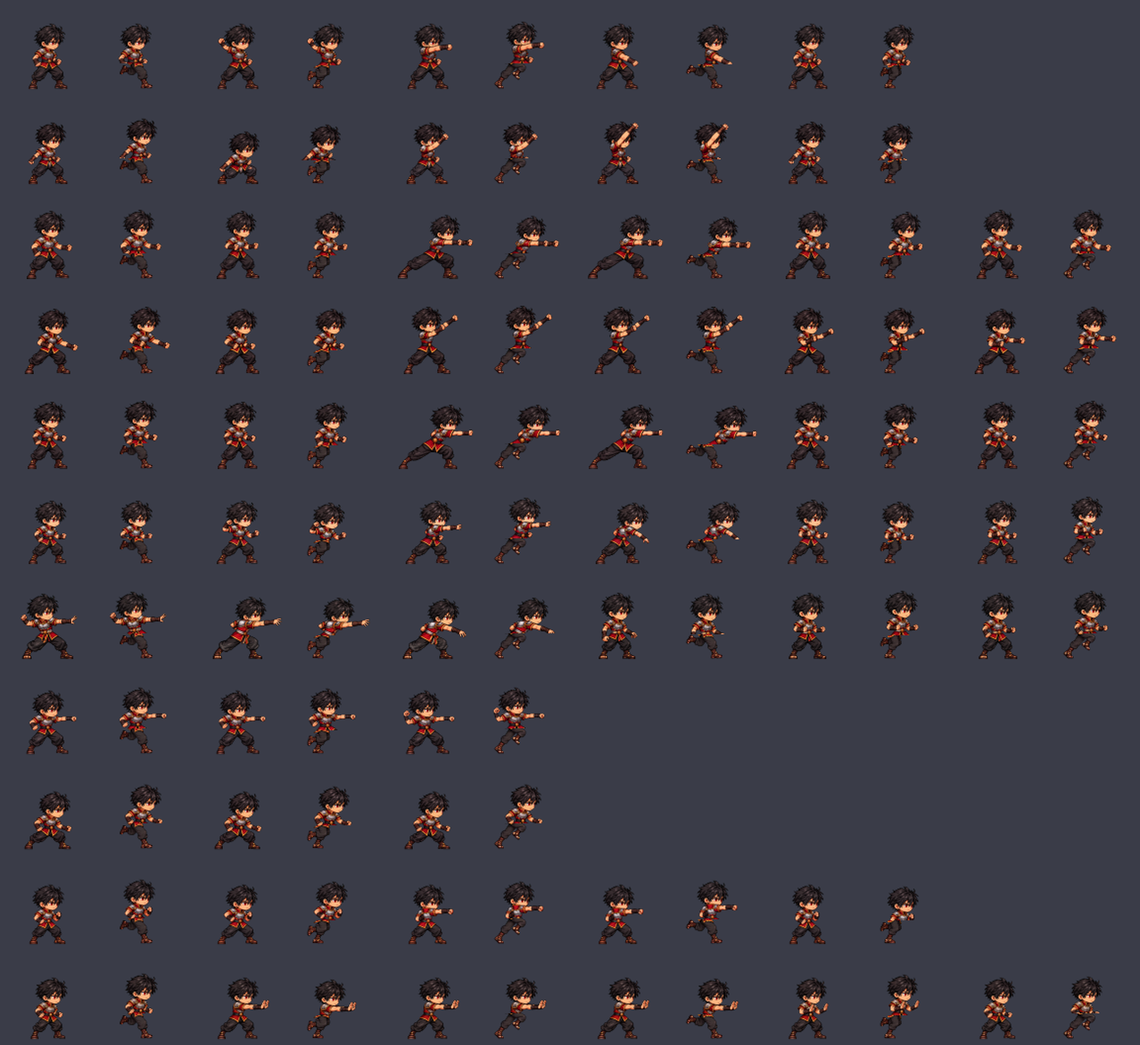
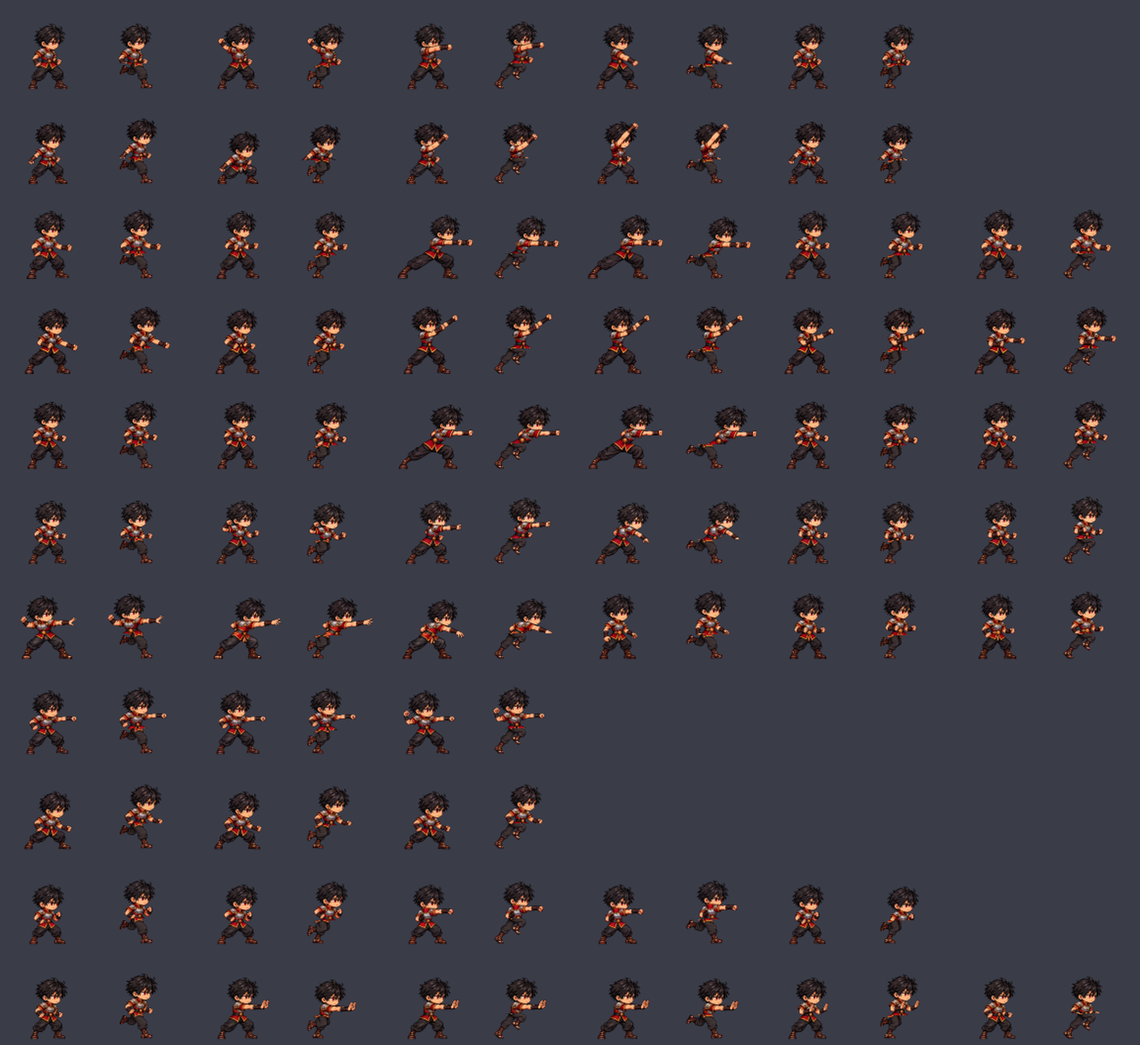
Zed chạy + chém: hết vặn người (chân cùng hướng thân trên, chạy ngược → chạy lùi nhịp 0,8) và hết bóp eo (cắt giữa đùi, vùng nối 5 hàng giãn ngang khớp mép), đo lại 4 bộ (ZED_EO phiên bản 2), cờ ?eosua=0
Claude-Session: https://claude.ai/code/session_017N7QXqfkK27mirk6Hvvt7g

diff --git a/game/js/zed_eo_data.js b/game/js/zed_eo_data.js
@@ -1,2 +1,2 @@
 // TỰ SINH bởi docs/anh-goc/zed/cat-than.py — đừng sửa tay. Điểm eo từng khung để ghép chạy + chém (js/zed_moi.js).
-(window.G = window.G || {}).ZED_EO = {"phien_ban":1,"ghi_chu":"Dựng bằng docs/anh-goc/zed/cat-than.py. Mỗi khung [y, x] ô 96×96 nguồn: y = đường cắt (đáy đai), x = tâm hông.","hang":["kiem_1","kiem_2","thuong_1","thuong_2","thuong_3","phitieu","phitieu_chum","phitieu_ngam","thuong_giu","dam","chuong"],"bo":{"moi":{"chay":[[65,39],[67,43],[65,40],[64,41],[64,43],[66,43],[64,43],[64,42],[64,42],[64,42],[64,43],[64,44]],"kiem_1":[[64,45],[64,44],[63,44],[63,44],[64,44]],"kiem_2":[[67,44],[72,54],[66,45],[66,44],[67,44]],"thuong_1":[[62,45],[62,46],[62,50],[62,50],[61,45],[62,44]],"thuong_2":[[66,44],[63,46],[62,45],[62,44],[63,44],[63,46]],"thuong_3":[[61,46],[61,44],[62,48],[61,48],[61,44],[61,44]],"phitieu":[[66,46],[66,46],[66,47],[65,47],[66,45],[66,46]],"phitieu_chum":[[64,45],[64,47],[64,47],[64,45],[64,44],[64,45]],"phitieu_ngam":[[67,45],[67,45],[66,46]],"thuong_giu":[[70,44],[70,45],[70,44]],"dam":[[68,44],[68,45],[68,44],[68,44],[67,44]],"chuong":[[67,45],[67,47],[67,47],[67,46],[67,45],[66,45]]},"rung":{"chay":[[63,39],[66,42],[63,40],[63,41],[62,42],[65,43],[62,43],[62,38],[62,40],[62,41],[61,39],[62,42]],"kiem_1":[[63,46],[63,45],[63,46],[63,44],[63,45]],"kiem_2":[[67,45],[72,54],[67,44],[67,44],[67,44]],"thuong_1":[[60,45],[60,44],[61,51],[61,50],[60,45],[60,45]],"thuong_2":[[66,44],[63,46],[62,44],[62,44],[66,43],[65,44]],"thuong_3":[[61,45],[61,45],[62,52],[61,50],[65,44],[65,43]],"phitieu":[[66,45],[66,46],[66,48],[66,48],[66,46],[66,45]],"phitieu_chum":[[63,43],[64,50],[64,48],[64,44],[64,44],[64,44]],"phitieu_ngam":[[65,44],[65,44],[65,44]],"thuong_giu":[[70,46],[70,46],[70,46]],"dam":[[68,44],[68,45],[68,43],[68,43],[68,45]],"chuong":[[67,45],[67,46],[67,46],[67,46],[67,45],[66,45]]},"bien":{"chay":[[68,42],[67,41],[68,41],[64,41],[63,40],[64,41],[64,43],[63,38],[68,39],[67,40],[67,39],[64,44]],"kiem_1":[[64,45],[64,44],[63,44],[67,43],[64,44]],"kiem_2":[[65,45],[72,54],[66,45],[66,44],[65,45]],"thuong_1":[[62,45],[60,50],[62,50],[62,49],[61,45],[62,44]],"thuong_2":[[66,45],[63,46],[62,45],[62,44],[63,44],[66,43]],"thuong_3":[[61,46],[61,44],[63,46],[61,48],[61,44],[61,44]],"phitieu":[[65,44],[65,42],[66,45],[66,44],[65,46],[65,46]],"phitieu_chum":[[64,48],[64,47],[64,47],[64,45],[64,44],[64,45]],"phitieu_ngam":[[67,45],[67,45],[66,46]],"thuong_giu":[[70,44],[70,45],[70,44]],"dam":[[71,44],[68,42],[68,42],[68,40],[71,44]],"chuong":[[66,41],[70,45],[70,45],[70,45],[70,45],[66,45]]},"lau":{"chay":[[63,40],[67,43],[65,40],[63,43],[63,41],[63,44],[64,43],[63,38],[65,40],[63,39],[63,40],[64,44]],"kiem_1":[[63,49],[65,46],[65,44],[63,44],[64,46]],"kiem_2":[[67,44],[72,54],[63,47],[63,48],[63,48]],"thuong_1":[[64,46],[64,46],[62,50],[62,50],[64,42],[63,46]],"thuong_2":[[65,43],[65,46],[64,42],[64,45],[65,44],[65,44]],"thuong_3":[[64,44],[64,44],[63,49],[63,44],[63,46],[64,44]],"phitieu":[[63,49],[63,48],[66,47],[65,47],[63,49],[67,49]],"phitieu_chum":[[65,46],[64,47],[64,47],[63,49],[67,42],[65,43]],"phitieu_ngam":[[66,45],[67,45],[66,46]],"thuong_giu":[[70,44],[70,45],[70,44]],"dam":[[68,44],[68,45],[66,46],[68,44],[63,40]],"chuong":[[67,45],[63,48],[63,49],[63,49],[68,44],[64,48]]}},"loai":{"rung":["kiem_2#1 [73, 44]→ninja [72, 54]"],"bien":["chay#3 None→ninja [64, 41]","chay#6 [64, 36]→ninja [64, 43]","chay#11 [64, 34]→ninja [64, 44]","kiem_1#0 [63, 36]→ninja [64, 45]","kiem_1#1 [63, 56]→ninja [64, 44]","kiem_1#2 [63, 53]→ninja [63, 44]","kiem_1#4 [63, 36]→ninja [64, 44]","kiem_2#1 [69, 59]→ninja [72, 54]","kiem_2#2 [65, 51]→ninja [66, 45]","kiem_2#3 [65, 53]→ninja [66, 44]","thuong_1#0 [61, 50]→ninja [62, 45]","thuong_1#4 [60, 52]→ninja [61, 45]","thuong_1#5 [61, 50]→ninja [62, 44]","thuong_2#1 None→ninja [63, 46]","thuong_2#2 None→ninja [62, 45]","thuong_2#3 None→ninja [62, 44]","thuong_2#4 None→ninja [63, 44]","thuong_3#0 [66, 44]→ninja [61, 46]","thuong_3#1 None→ninja [61, 44]","thuong_3#3 [62, 53]→ninja [61, 48]","thuong_3#4 [62, 53]→ninja [61, 44]","thuong_3#5 None→ninja [61, 44]","phitieu_chum#1 [65, 57]→ninja [64, 47]","phitieu_chum#2 [65, 54]→ninja [64, 47]","phitieu_chum#3 [65, 54]→ninja [64, 45]","phitieu_chum#4 None→ninja [64, 44]","phitieu_chum#5 None→ninja [64, 45]","phitieu_ngam#0 [65, 56]→ninja [67, 45]","phitieu_ngam#1 [65, 54]→ninja [67, 45]","phitieu_ngam#2 [65, 54]→ninja [66, 46]","thuong_giu#0 [69, 60]→ninja [70, 44]","thuong_giu#1 [69, 60]→ninja [70, 45]","thuong_giu#2 [69, 60]→ninja [70, 44]","chuong#5 None→ninja [66, 45]"],"lau":["chay#1 [64, 38]→ninja [67, 43]","chay#2 [63, 33]→ninja [65, 40]","chay#11 [63, 39]→ninja [64, 44]","kiem_2#0 [63, 49]→ninja [67, 44]","kiem_2#1 [64, 50]→ninja [72, 54]","thuong_1#2 [64, 44]→ninja [62, 50]","thuong_1#3 [64, 45]→ninja [62, 50]","phitieu#2 [63, 56]→ninja [66, 47]","phitieu#3 [63, 52]→ninja [65, 47]","phitieu_chum#1 [65, 56]→ninja [64, 47]","phitieu_chum#2 [63, 54]→ninja [64, 47]","phitieu_ngam#1 [66, 50]→ninja [67, 45]","phitieu_ngam#2 [66, 51]→ninja [66, 46]","thuong_giu#0 [64, 46]→ninja [70, 44]","thuong_giu#1 [64, 46]→ninja [70, 45]","thuong_giu#2 [63, 47]→ninja [70, 44]","dam#0 [63, 39]→ninja [68, 44]","dam#1 [63, 44]→ninja [68, 45]","dam#3 [70, 52]→ninja [68, 44]","chuong#0 [63, 52]→ninja [67, 45]"]}};
+(window.G = window.G || {}).ZED_EO = {"phien_ban":2,"vung_noi":5,"keo_toi_da":1.8,"doi_toi_da":10,"ghi_chu":"Dựng bằng docs/anh-goc/zed/cat-than.py. Mỗi khung [y, x, c, l, r] ô 96×96 nguồn: y = đáy đai (cắt cũ, trục nghiêng), x = tâm hông; c = đường cắt giữa đùi (zed-eo-sua), l/r = mép trái/phải hình ở hàng c (−1: không đo được).","hang":["kiem_1","kiem_2","thuong_1","thuong_2","thuong_3","phitieu","phitieu_chum","phitieu_ngam","thuong_giu","dam","chuong"],"bo":{"moi":{"chay":[[65,39,74,32,49],[67,43,75,32,48],[65,40,74,32,45],[64,41,73,33,49],[64,43,73,31,49],[66,43,74,44,51],[64,43,73,24,49],[64,42,73,25,45],[64,42,73,28,46],[64,42,73,33,49],[64,43,73,31,49],[64,44,73,34,53]],"kiem_1":[[64,45,73,35,63],[64,44,73,34,63],[63,44,72,35,63],[63,44,72,35,63],[64,44,73,34,63]],"kiem_2":[[67,44,75,35,62],[72,54,78,33,65],[66,45,74,35,62],[66,44,74,35,63],[67,44,75,35,62]],"thuong_1":[[62,45,72,34,62],[62,46,72,34,63],[62,50,72,30,50],[62,50,72,30,50],[61,45,71,33,63],[62,44,72,34,62]],"thuong_2":[[66,44,74,31,46],[63,46,72,34,64],[62,45,72,33,64],[62,44,72,33,63],[63,44,72,33,63],[63,46,72,35,65]],"thuong_3":[[61,46,71,36,62],[61,44,71,36,61],[62,48,72,29,73],[61,48,71,32,73],[61,44,71,34,63],[61,44,71,35,61]],"phitieu":[[66,46,74,36,62],[66,46,74,35,63],[66,47,74,35,64],[65,47,74,35,64],[66,45,74,35,62],[66,46,74,36,62]],"phitieu_chum":[[64,45,73,33,65],[64,47,73,32,67],[64,47,73,33,65],[64,45,73,35,59],[64,44,73,36,60],[64,45,73,36,60]],"phitieu_ngam":[[67,45,75,34,63],[67,45,75,34,63],[66,46,74,36,64]],"thuong_giu":[[70,44,77,32,64],[70,45,77,32,64],[70,44,77,32,64]],"dam":[[68,44,76,35,60],[68,45,76,35,62],[68,44,76,35,62],[68,44,76,35,62],[67,44,75,36,60]],"chuong":[[67,45,75,36,61],[67,47,75,36,64],[67,47,75,36,64],[67,46,75,35,64],[67,45,75,35,60],[66,45,74,36,60]]},"rung":{"chay":[[63,39,72,30,49],[66,42,74,31,48],[63,40,72,31,45],[63,41,72,33,49],[62,42,72,31,49],[65,43,74,45,52],[62,43,72,23,50],[62,38,72,23,45],[62,40,72,26,45],[62,41,72,31,49],[61,39,71,30,49],[62,42,72,32,51]],"kiem_1":[[63,46,72,36,62],[63,45,72,35,63],[63,46,72,35,63],[63,44,72,34,63],[63,45,72,35,62]],"kiem_2":[[67,45,75,35,62],[72,54,78,33,65],[67,44,75,35,63],[67,44,75,34,63],[67,44,75,35,62]],"thuong_1":[[60,45,70,35,61],[60,44,70,35,62],[61,51,71,31,52],[61,50,71,32,74],[60,45,70,34,63],[60,45,70,35,62]],"thuong_2":[[66,44,74,31,46],[63,46,72,35,64],[62,44,72,33,64],[62,44,72,33,64],[66,43,74,31,46],[65,44,74,31,46]],"thuong_3":[[61,45,71,36,63],[61,45,71,36,62],[62,52,72,29,73],[61,50,71,30,73],[65,44,74,33,46],[65,43,74,33,45]],"phitieu":[[66,45,74,36,62],[66,46,74,36,64],[66,48,74,36,65],[66,48,74,36,64],[66,46,74,36,62],[66,45,74,36,61]],"phitieu_chum":[[63,43,72,32,65],[64,50,73,31,67],[64,48,73,31,65],[64,44,73,36,60],[64,44,73,35,61],[64,44,73,35,60]],"phitieu_ngam":[[65,44,74,33,63],[65,44,74,33,64],[65,44,74,34,64]],"thuong_giu":[[70,46,77,33,64],[70,46,77,33,64],[70,46,77,33,64]],"dam":[[68,44,76,35,61],[68,45,76,34,63],[68,43,76,34,62],[68,43,76,34,61],[68,45,76,35,61]],"chuong":[[67,45,75,35,61],[67,46,75,35,64],[67,46,75,35,64],[67,46,75,35,64],[67,45,75,35,61],[66,45,74,36,60]]},"bien":{"chay":[[68,42,76,46,53],[67,41,75,35,49],[68,41,76,35,45],[64,41,73,31,49],[63,40,72,31,50],[64,41,73,28,51],[64,43,73,32,50],[63,38,72,24,46],[68,39,76,35,44],[67,40,75,29,42],[67,39,75,27,43],[64,44,73,30,52]],"kiem_1":[[64,45,73,35,63],[64,44,73,34,64],[63,44,72,35,63],[67,43,75,32,45],[64,44,73,34,63]],"kiem_2":[[65,45,74,34,64],[72,54,78,53,67],[66,45,74,33,66],[66,44,74,32,64],[65,45,74,34,64]],"thuong_1":[[62,45,72,33,62],[60,50,70,35,62],[62,50,72,30,50],[62,49,72,29,49],[61,45,71,34,64],[62,44,72,33,62]],"thuong_2":[[66,45,74,31,46],[63,46,72,35,65],[62,45,72,32,64],[62,44,72,33,64],[63,44,72,33,64],[66,43,74,31,45]],"thuong_3":[[61,46,71,36,62],[61,44,71,35,60],[63,46,72,31,73],[61,48,71,33,73],[61,44,71,36,63],[61,44,71,37,63]],"phitieu":[[65,44,74,35,62],[65,42,74,35,63],[66,45,74,35,65],[66,44,74,35,65],[65,46,74,35,63],[65,46,74,35,62]],"phitieu_chum":[[64,48,73,33,64],[64,47,73,33,67],[64,47,73,35,65],[64,45,73,37,59],[64,44,73,37,60],[64,45,73,37,59]],"phitieu_ngam":[[67,45,75,34,63],[67,45,75,33,63],[66,46,74,35,63]],"thuong_giu":[[70,44,77,32,64],[70,45,77,32,64],[70,44,77,32,64]],"dam":[[71,44,78,34,46],[68,42,76,35,62],[68,42,76,35,62],[68,40,76,35,61],[71,44,78,34,46]],"chuong":[[66,41,74,37,60],[70,45,77,34,64],[70,45,77,34,46],[70,45,77,33,46],[70,45,77,34,46],[66,45,74,36,60]]},"lau":{"chay":[[63,40,72,25,51],[67,43,75,34,49],[65,40,74,24,44],[63,43,72,29,49],[63,41,72,27,48],[63,44,72,27,51],[64,43,73,22,51],[63,38,72,23,48],[65,40,74,26,46],[63,39,72,27,48],[63,40,72,27,48],[64,44,73,28,53]],"kiem_1":[[63,49,72,35,63],[65,46,74,34,64],[65,44,74,33,64],[63,44,72,33,63],[64,46,73,34,63]],"kiem_2":[[67,44,75,33,63],[72,54,78,34,66],[63,47,72,35,60],[63,48,72,36,62],[63,48,72,36,61]],"thuong_1":[[64,46,73,32,64],[64,46,73,32,46],[62,50,72,28,49],[62,50,72,29,49],[64,42,73,31,46],[63,46,72,33,63]],"thuong_2":[[65,43,74,30,45],[65,46,74,31,46],[64,42,73,31,45],[64,45,73,31,46],[65,44,74,30,44],[65,44,74,30,45]],"thuong_3":[[64,44,73,34,63],[64,44,73,34,63],[63,49,72,31,73],[63,44,72,30,73],[63,46,72,34,64],[64,44,73,33,63]],"phitieu":[[63,49,72,37,62],[63,48,72,36,63],[66,47,74,35,66],[65,47,74,35,65],[63,49,72,36,63],[67,49,75,33,63]],"phitieu_chum":[[65,48,74,51,64],[65,43,74,30,47],[64,47,73,30,65],[67,46,75,34,61],[67,44,75,34,61],[65,46,74,34,60]],"phitieu_ngam":[[66,45,74,32,63],[67,45,75,30,44],[66,46,74,32,44]],"thuong_giu":[[70,44,77,30,64],[70,45,77,30,64],[70,44,77,30,64]],"dam":[[68,44,76,34,60],[68,45,76,34,63],[66,46,74,35,60],[68,44,76,34,61],[63,40,72,38,58]],"chuong":[[67,45,75,36,62],[63,48,72,37,62],[63,49,72,37,62],[63,49,72,37,62],[68,44,76,33,61],[64,48,73,36,60]]}},"loai":{"rung":["kiem_2#1 [73, 44]→ninja [72, 54]"],"bien":["chay#3 None→ninja [64, 41]","chay#6 [64, 36]→ninja [64, 43]","chay#11 [64, 34]→ninja [64, 44]","kiem_1#0 [63, 36]→ninja [64, 45]","kiem_1#1 [63, 56]→ninja [64, 44]","kiem_1#2 [63, 53]→ninja [63, 44]","kiem_1#4 [63, 36]→ninja [64, 44]","kiem_2#1 [69, 59]→ninja [72, 54]","kiem_2#2 [65, 51]→ninja [66, 45]","kiem_2#3 [65, 53]→ninja [66, 44]","thuong_1#0 [61, 50]→ninja [62, 45]","thuong_1#4 [60, 52]→ninja [61, 45]","thuong_1#5 [61, 50]→ninja [62, 44]","thuong_2#1 None→ninja [63, 46]","thuong_2#2 None→ninja [62, 45]","thuong_2#3 None→ninja [62, 44]","thuong_2#4 None→ninja [63, 44]","thuong_3#0 [66, 44]→ninja [61, 46]","thuong_3#1 None→ninja [61, 44]","thuong_3#3 [62, 53]→ninja [61, 48]","thuong_3#4 [62, 53]→ninja [61, 44]","thuong_3#5 None→ninja [61, 44]","phitieu_chum#1 [65, 57]→ninja [64, 47]","phitieu_chum#2 [65, 54]→ninja [64, 47]","phitieu_chum#3 [65, 54]→ninja [64, 45]","phitieu_chum#4 None→ninja [64, 44]","phitieu_chum#5 None→ninja [64, 45]","phitieu_ngam#0 [65, 56]→ninja [67, 45]","phitieu_ngam#1 [65, 54]→ninja [67, 45]","phitieu_ngam#2 [65, 54]→ninja [66, 46]","thuong_giu#0 [69, 60]→ninja [70, 44]","thuong_giu#1 [69, 60]→ninja [70, 45]","thuong_giu#2 [69, 60]→ninja [70, 44]","chuong#5 None→ninja [66, 45]"],"lau":["chay#1 [64, 38]→ninja [67, 43]","chay#2 [63, 33]→ninja [65, 40]","chay#11 [63, 39]→ninja [64, 44]","kiem_2#0 [63, 49]→ninja [67, 44]","kiem_2#1 [64, 50]→ninja [72, 54]","thuong_1#2 [64, 44]→ninja [62, 50]","thuong_1#3 [64, 45]→ninja [62, 50]","phitieu#2 [63, 56]→ninja [66, 47]","phitieu#3 [63, 52]→ninja [65, 47]","phitieu_chum#2 [63, 53]→ninja [64, 47]","phitieu_ngam#1 [66, 50]→ninja [67, 45]","phitieu_ngam#2 [66, 51]→ninja [66, 46]","thuong_giu#0 [64, 46]→ninja [70, 44]","thuong_giu#1 [64, 46]→ninja [70, 45]","thuong_giu#2 [63, 47]→ninja [70, 44]","dam#0 [63, 39]→ninja [68, 44]","dam#1 [63, 44]→ninja [68, 45]","dam#3 [70, 52]→ninja [68, 44]","chuong#0 [63, 52]→ninja [67, 45]"]}};

diff --git a/game/js/zed_moi.js b/game/js/zed_moi.js
@@ -19,6 +19,10 @@
 // quá ±75° thì nghiêng thân trên quanh eo tối đa 12°; chém/quét/nện: nghiêng cả đường vung tối đa ±35°. Vào thế êm (làm mượt theo thời
 // gian + nối góc như gocMuot). Ném phi tiêu / đấm tay không (không có neo vũ khí): cánh tay đang duỗi (bảng TAY) xoay quanh gốc tay cùng góc.
 // Vệt/hiệu ứng: mũi vũ khí (doiTip) đã xoay theo; js/fx.js aimed() hỏi G.zedMoi.lechHinh. Tắt: ?huongvk=0.
+// SỬA BÓP EO / VẶN NGƯỜI KHI CHẠY + CHÉM (13/10/2026, docs/review/ke-hoach-cai-thien/zed-eo-sua/YEU-CAU.md): chân luôn cùng hướng thân trên
+// (hướng chém); chạy ngược hướng chém → chạy LÙI (hàng chạy phát ngược thứ tự khung, nhịp ×0,8). Đường ghép dời xuống giữa đùi (đai + hông +
+// đùi trên của khung đòn), vùng nối 5 hàng nguồn: nửa hẹp hơn giãn ngang dần cho khớp mép nửa kia, nửa trên đè nửa dưới. Số đo từng khung cả
+// 4 bộ: G.ZED_EO phiên bản 2 (docs/anh-goc/zed/cat-than.py). Chỉ đổi HÌNH. Tắt: ?eosua=0 (G.EO_SUA, js/data.js) → cách ghép cũ.
 (function () {
   const G = window.G;
   const SC = G.spriteCustom;
@@ -49,12 +53,33 @@
   const BO_MA = { 'zed-moi': 'moi', 'zed-rung': 'rung', 'zed-bien': 'bien', 'zed-lau': 'lau' };
   const eoBat = () => G.CHAY_DANH_MOI !== false && !!G.ZED_EO && (G.CHAY_DANH === 'than' || G.CHAY_DANH === 'eo');
   const coEo = (ten) => eoBat() && G.ZED_EO.hang.indexOf(ten) >= 0;
+  // Sửa bóp eo / vặn người (zed-eo-sua): cần dữ liệu phiên bản 2 (mỗi khung [y, x, c, l, r]). Tắt ?eosua=0.
+  const eoSua = () => G.EO_SUA !== false && !!G.ZED_EO && G.ZED_EO.phien_ban >= 2;
+  const LUI_NHIP = 0.8; // chạy lùi: nhịp chân chậm lại
+  // Chân có chạy ngược hướng mặt (hướng chém) không — cùng phép thử như eoTinh cũ.
+  const nguocMat = (o) => { const f = o.face < 0 ? -1 : 1, md = o.mdx || 0; return Math.abs(md) > 0.2 && (md > 0 ? 1 : -1) !== f; };
+  // Phép kéo vùng nối (y hệt keo_noi trong cat-than.py): { tren, l, r, L, R } — tren = nửa trên được kéo (nửa dưới nếu false); [l, r] mép
+  // nửa được kéo, [L, R] mép đích, đều theo cột nguồn của khung CHẠY (nửa trên đã dời dx). null: không kéo (khớp sẵn / không đo được / quá xa).
+  function keoNoi(eA, eR, dx) {
+    const Z = G.ZED_EO;
+    if (eA[3] < 0 || eR[3] < 0) return null;
+    const lA = eA[3] + dx, rA = eA[4] + dx, lR = eR[3], rR = eR[4], wA = rA - lA + 1, wR = rR - lR + 1;
+    if (wA === wR && lA === lR) return null;
+    const tren = wA < wR, l = tren ? lA : lR, r = tren ? rA : rR, L = tren ? lR : lA, R = tren ? rR : rA;
+    if ((R - L + 1) / (r - l + 1) > (Z.keo_toi_da || 1.8) || Math.max(Math.abs(L - l), Math.abs(R - r)) > (Z.doi_toi_da || 10)) return null;
+    return { tren, l, r, L, R };
+  }
   // Số liệu ghép một khung: eA, eR = điểm eo [y, x] (ô 96 nguồn) khung đòn / khung chạy; ox, oy = dời nửa trên (điểm ảnh game,
   // hệ toạ độ đã lật theo mặt); rel = -1 khi chân quay ngược mặt (chạy ngược hướng chém); kc = bù 1 điểm ảnh khi lật chân.
   function eoTinh(T, s, o) {
     const B = G.ZED_EO.bo[BO_MA[T._ma] || 'moi'] || G.ZED_EO.bo.moi;
     const eA = B[s.ten] && B[s.ten][s.i], eR = B.chay && B.chay[s.eo.i];
     if (!eA || !eR) return null;
+    // cách mới: chân không lật (luôn cùng hướng thân trên), ngang khớp tâm hông, dọc khớp đường cắt giữa đùi
+    if (s.eo.moi && eA.length >= 5 && eR.length >= 5) {
+      const dx = eR[1] - eA[1];
+      return { eA, eR, rel: 1, kc: 0, moi: true, ox: dx / 2, oy: (eR[2] - eA[2]) / 2, K: keoNoi(eA, eR, dx) };
+    }
     const f = o.face < 0 ? -1 : 1, md = o.mdx || 0;
     const rel = Math.abs(md) > 0.2 && (md > 0 ? 1 : -1) !== f ? -1 : 1;
     const kc = rel < 0 ? ((f > 0 ? 1 : 0) - (f < 0 ? 1 : 0)) * f : 0;
@@ -101,7 +126,14 @@
   function chon(o, D) {
     const s = chon0(o, D);
     // chạy + chém: ghép eo (chân hàng chạy, thân trên hàng đòn) — chỉ hàng có điểm eo, chỉ khi đang chạy
-    if (s && s.ghep && o.move && coEo(s.ten) && D.dong_tac.chay) return { ten: s.ten, i: s.i, u: s.u, eo: { i: khungLap(D, 'chay', s.tc) } };
+    if (s && s.ghep && o.move && coEo(s.ten) && D.dong_tac.chay) {
+      if (eoSua()) { // chân cùng hướng thân trên; chạy ngược hướng chém → chạy lùi (phát ngược thứ tự khung, nhịp ×0,8)
+        const so = D.dong_tac.chay.so, lui = nguocMat(o);
+        const i = lui ? so - 1 - khungLap(D, 'chay', s.tc * LUI_NHIP) : khungLap(D, 'chay', s.tc);
+        return { ten: s.ten, i: s.i, u: s.u, eo: { i, moi: 1, lui: lui ? 1 : 0 } };
+      }
+      return { ten: s.ten, i: s.i, u: s.u, eo: { i: khungLap(D, 'chay', s.tc) } };
+    }
     if (s && s.ghep) { const r = { ten: s.ten, i: s.i, u: s.u }; return s.theo ? Object.assign(r, { theo: s.theo }) : r; }
     return s;
   }
@@ -358,6 +390,40 @@
       q.save(); q.beginPath(); q.rect(-24 + ox, -45 + oy, 48, h / 2); q.rect(x0, y0, w, hh); q.clip('evenodd'); ve0(); q.restore();
       nghieng(q, [tay[0] / 2 - 24 + ox, tay[1] / 2 - 45 + oy], gTay, () => { q.beginPath(); q.rect(x0, y0, w, hh); q.clip(); ve0(); });
     };
+    if (s.eo && E && E.moi) {
+      // Ghép giữa đùi (zed-eo-sua): nửa trên = khung đòn hàng 0..cA, nửa dưới = khung chạy từ hàng cR (lấn 1 hàng, bị nửa trên đè).
+      const aC = D.dong_tac.chay, cA = E.eA[2], cR = E.eR[2], yA = cA + 1, yB = E.eA[0] + 1, K = E.K, S = G.ZED_EO.vung_noi || 5;
+      const dx = E.eR[1] - E.eA[1];
+      // một hàng nguồn sy (cột x0 = toạ độ cột khung chạy của cột 0), kéo theo K với mức t (0 = giữ nguyên, 1 = khớp hẳn mép đích)
+      const hang = (q, sx, sy, x0, yD, t) => {
+        if (!K || !(t > 0)) { q.drawImage(T.img, sx, sy, 96, 1, x0 / 2 - 24, yD, 48, 0.5); return; }
+        const tl = K.l + t * (K.L - K.l), tr = K.r + t * (K.R - K.r), k = (tr - tl + 1) / (K.r - K.l + 1);
+        q.drawImage(T.img, sx, sy, 96, 1, (tl + (x0 - K.l) * k) / 2 - 24, yD, 48 * k, 0.5);
+      };
+      const tKeo = (k) => (k >= 0 && k < S ? (S - k) / S : 0); // k = số hàng tính từ mép nối
+      // đang nghiêng: chỉ phần từ đai trở lên xoay, dải hông + đùi trên (dưới đai) đứng yên như chân; không nghiêng: vẽ liền tới vùng kéo
+      const yT = N ? Math.min(yB, yA) : K && K.tren ? Math.max(0, yA - S) : yA;
+      const lopEo = (q) => {
+        const xoay = (fn) => (N ? nghieng(q, N, lean, fn) : fn());
+        const vk = () => { q.save(); q.translate(E.ox, E.oy); veVk(q, V, v); q.restore(); };
+        if (v && v.n[3]) xoay(vk);
+        // nửa dưới: chân khung chạy từ hàng cR (cùng hướng thân trên, không lật); vùng nối kéo nếu nửa dưới hẹp hơn
+        const y0 = K && !K.tren ? cR + 1 + S : cR;
+        if (K && !K.tren) for (let y = cR; y < y0 && y < 96; y++) hang(q, s.eo.i * 96, aC.hang * 96 + y, 0, -45 + y / 2, y === cR ? 1 : tKeo(y - cR - 1));
+        if (y0 < 96) q.drawImage(T.img, s.eo.i * 96, aC.hang * 96 + y0, 96, 96 - y0, -24, -45 + y0 / 2, 48, (96 - y0) / 2);
+        // đang nghiêng: lót dải đai (6 hàng nguồn ngay trên đai, không xoay) để chỗ nối không hở
+        if (N) q.drawImage(T.img, s.i * 96, a.hang * 96 + yB - 6, 96, 6, -24 + E.ox, -45 + E.oy + (yB - 6) / 2, 48, 3);
+        // dải dưới (hàng yT..cA của khung đòn): không xoay; vùng nối kéo nếu nửa trên hẹp hơn
+        for (let y = yT; y < yA; y++) hang(q, s.i * 96, a.hang * 96 + y, dx, -45 + E.oy + y / 2, K && K.tren ? tKeo(cA - y) : 0);
+        // nửa trên: đai + thân + tay khung đòn (hàng 0..yT−1), dời về khung chạy; xoay quanh eo khi nghiêng
+        xoay(() => {
+          veTren(q, yT, E.ox, E.oy);
+          if (v && !v.n[3]) vk();
+          if (v && v.da.hang_tay != null) q.drawImage(T.img, v.wa.i * 96, v.da.hang_tay * 96, 96, yA, -24 + E.ox, -45 + E.oy, 48, yA / 2); // nắm tay đè lên cán
+        });
+      };
+      return veLop(c, o, lopEo);
+    }
     if (s.eo && E) {
       const aC = D.dong_tac.chay, yR = E.eR[0] + 1, yA = E.eA[0] + 1;
       const lopEo = (q) => {

diff --git a/game/dist/xuong-sprite.html b/game/dist/xuong-sprite.html
@@ -894,6 +894,10 @@ window.G.LANG = 'vi';
   // xoay cùng góc. Chỉ đổi HÌNH. Tắt: ?huongvk=0 (vũ khí chỉ vẽ ngang theo neo như trước).
   G.HUONG_VK = true;
   try { if (typeof location !== 'undefined' && /[?&]huongvk=0(&|$)/.test(location.search || '')) G.HUONG_VK = false; } catch (e) { /* giữ mặc định */ }
+  // SỬA BÓP EO / VẶN NGƯỜI KHI CHẠY + CHÉM (13/10/2026, docs/review/ke-hoach-cai-thien/zed-eo-sua): js/zed_moi.js cho chân luôn cùng hướng
+  // thân trên (chạy ngược hướng chém → chạy lùi), ghép ở giữa đùi, vùng nối giãn ngang khớp bề rộng. Chỉ đổi HÌNH. Tắt: ?eosua=0 (ghép như trước).
+  G.EO_SUA = true;
+  try { if (typeof location !== 'undefined' && /[?&]eosua=0(&|$)/.test(location.search || '')) G.EO_SUA = false; } catch (e) { /* giữ mặc định */ }
   // TRANG PHỤC ZED (13/10/2026, docs/review/ke-hoach-cai-thien/zed-bo-rung): mỗi bộ = nguyên bộ hình Zed mặc sẵn bộ đó (js/zed_moi.js
   // chọn tấm theo bộ đang mặc; vũ khí, nhịp, neo như nhau). Lưu ở save.zed.bo ('ninja' | 'rung'; không có = 'ninja') và save.zed.boMo
   // (các bộ đã mở). Bộ Rừng mở khi hạ trùm vùng Rừng già (js/stage.js; bản lưu cũ đã có sao ải trùm Rừng thì tự mở, js/engine.js fixSave).

diff --git a/tools/xuong-sprite/index.html b/tools/xuong-sprite/index.html
@@ -894,6 +894,10 @@ window.G.LANG = 'vi';
   // xoay cùng góc. Chỉ đổi HÌNH. Tắt: ?huongvk=0 (vũ khí chỉ vẽ ngang theo neo như trước).
   G.HUONG_VK = true;
   try { if (typeof location !== 'undefined' && /[?&]huongvk=0(&|$)/.test(location.search || '')) G.HUONG_VK = false; } catch (e) { /* giữ mặc định */ }
+  // SỬA BÓP EO / VẶN NGƯỜI KHI CHẠY + CHÉM (13/10/2026, docs/review/ke-hoach-cai-thien/zed-eo-sua): js/zed_moi.js cho chân luôn cùng hướng
+  // thân trên (chạy ngược hướng chém → chạy lùi), ghép ở giữa đùi, vùng nối giãn ngang khớp bề rộng. Chỉ đổi HÌNH. Tắt: ?eosua=0 (ghép như trước).
+  G.EO_SUA = true;
+  try { if (typeof location !== 'undefined' && /[?&]eosua=0(&|$)/.test(location.search || '')) G.EO_SUA = false; } catch (e) { /* giữ mặc định */ }
   // TRANG PHỤC ZED (13/10/2026, docs/review/ke-hoach-cai-thien/zed-bo-rung): mỗi bộ = nguyên bộ hình Zed mặc sẵn bộ đó (js/zed_moi.js
   // chọn tấm theo bộ đang mặc; vũ khí, nhịp, neo như nhau). Lưu ở save.zed.bo ('ninja' | 'rung'; không có = 'ninja') và save.zed.boMo
   // (các bộ đã mở). Bộ Rừng mở khi hạ trùm vùng Rừng già (js/stage.js; bản lưu cũ đã có sao ải trùm Rừng thì tự mở, js/engine.js fixSave).

diff --git a/game/js/data.js b/game/js/data.js
@@ -272,6 +272,10 @@
   // xoay cùng góc. Chỉ đổi HÌNH. Tắt: ?huongvk=0 (vũ khí chỉ vẽ ngang theo neo như trước).
   G.HUONG_VK = true;
   try { if (typeof location !== 'undefined' && /[?&]huongvk=0(&|$)/.test(location.search || '')) G.HUONG_VK = false; } catch (e) { /* giữ mặc định */ }
+  // SỬA BÓP EO / VẶN NGƯỜI KHI CHẠY + CHÉM (13/10/2026, docs/review/ke-hoach-cai-thien/zed-eo-sua): js/zed_moi.js cho chân luôn cùng hướng
+  // thân trên (chạy ngược hướng chém → chạy lùi), ghép ở giữa đùi, vùng nối giãn ngang khớp bề rộng. Chỉ đổi HÌNH. Tắt: ?eosua=0 (ghép như trước).
+  G.EO_SUA = true;
+  try { if (typeof location !== 'undefined' && /[?&]eosua=0(&|$)/.test(location.search || '')) G.EO_SUA = false; } catch (e) { /* giữ mặc định */ }
   // TRANG PHỤC ZED (13/10/2026, docs/review/ke-hoach-cai-thien/zed-bo-rung): mỗi bộ = nguyên bộ hình Zed mặc sẵn bộ đó (js/zed_moi.js
   // chọn tấm theo bộ đang mặc; vũ khí, nhịp, neo như nhau). Lưu ở save.zed.bo ('ninja' | 'rung'; không có = 'ninja') và save.zed.boMo
   // (các bộ đã mở). Bộ Rừng mở khi hạ trùm vùng Rừng già (js/stage.js; bản lưu cũ đã có sao ải trùm Rừng thì tự mở, js/engine.js fixSave).

diff --git a/docs/anh-goc/zed/cat-than.py b/docs/anh-goc/zed/cat-than.py
@@ -22,6 +22,14 @@ DÒ ĐAI TỰ ĐỘNG (từng khung, từng bộ):
   - mép trên đai = hàng cao nhất mà nó và hàng dưới đều có ≥ 2 điểm màu đai (nút / đuôi đai rủ xuống nằm dưới nên không làm lệch);
     đường cắt y = mép trên + DAY_DAI − 1.
   - Không thấy đai (hoặc lệch > LECH_TOI_DA so với bộ ninja cùng khung) → dùng điểm eo của bộ ninja cùng khung, ghi vào 'loai'.
+SỬA BÓP EO (13/10/2026, docs/review/ke-hoach-cai-thien/zed-eo-sua/YEU-CAU.md, cờ game ?eosua=0 → cách trên):
+  - Mỗi khung ghi thêm [.., c, l, r]: c = đường cắt THẤP (giữa đùi) = y + round((chân − y) × TI_LE_CAT); l, r = mép trái/phải hình
+    (bỏ da tay, bỏ màu đai/đuôi đai) quanh hàng c — gộp các đoạn liền cách nhau ≤ GOP_DOAN điểm ảnh (hai đùi) quanh tâm hông.
+  - Game: nửa trên = khung ĐÒN hàng 0..c (đai + hông + đùi trên), nửa dưới = khung CHẠY hàng > c (giữa đùi → bàn chân); nửa trên dời
+    ngang theo tâm hông (x, như cũ: thân không nhảy), dọc sao cho hàng c đòn nằm ngay trên hàng c+1 chạy. Vùng nối VUNG_NOI hàng: nửa
+    nào hẹp hơn thì kéo giãn ngang dần (hàng xa mép giữ nguyên → ở mép nối khớp đúng mép trái/phải của nửa kia; hệ số ≤ KEO_TOI_DA,
+    mép dời ≤ DOI_TOI_DA, quá thì không kéo); nửa trên vẽ đè lên nửa dưới (nửa dưới lấn lên 1 hàng).
+  - Điểm eo cũ [y, x] (2 số đầu) giữ nguyên: trục nghiêng thân trên (zed-8-huong) và cách cũ ?eosua=0 vẫn đọc.
 HÀNG ĐƯỢC GHÉP (thân trên thẳng): HANG_EO. Hàng cúi/khuỵu (kiếm 3, búa, quét, đặc biệt…) KHÔNG ghép: game vẽ toàn thân hàng đòn.
 """
 import base64, io, json, os
@@ -42,6 +50,12 @@ HANG_EO = ['kiem_1', 'kiem_2', 'thuong_1', 'thuong_2', 'thuong_3', 'phitieu', 'p
 LECH_TOI_DA = 4  # điểm ảnh nguồn
 VUNG_TREN = {'lau': 29}  # Lâu đài: ngực áo giáp cũng đỏ → bắt đầu tìm thấp hơn (dưới ngực)
 DAY_DAI = 3      # bề dày dải đai (điểm ảnh nguồn, đo trên tấm đứng)
+TI_LE_CAT = 0.35  # đường cắt mới: từ đáy đai xuống 35% quãng đai → bàn chân ≈ giữa đùi (zed-eo-sua)
+GOP_DOAN = 4      # hai đùi cách nhau ≤ 4 điểm ảnh nguồn vẫn tính là một khối khi đo bề rộng
+VUNG_NOI = 5      # số hàng nguồn của vùng nối kéo giãn (game đọc ZED_EO.vung_noi)
+KEO_TOI_DA = 1.8  # hệ số giãn ngang tối đa ở mép nối (game đọc ZED_EO.keo_toi_da)
+DOI_TOI_DA = 10   # mép trái/phải dời tối đa (điểm ảnh nguồn) khi khớp (game đọc ZED_EO.doi_toi_da)
+RA_XEM_SUA = os.path.join(GOC, 'docs', 'review', 'ke-hoach-cai-thien', 'zed-eo-sua')
 
 
 def hsv(a):
@@ -119,6 +133,43 @@ def do_eo(f, bo):
     return [int(y), int(round(float(np.mean(tam))))]
 
 
+def doan_hang(row, x0):
+    """Khối hình quanh cột x0 trên một hàng mặt nạ: [trái, phải] (gộp các đoạn cách nhau ≤ GOP_DOAN), hoặc None."""
+    doan, j = [], 0
+    while j < O:
+        if row[j]:
+            j0 = j
+            while j < O and row[j]:
+                j += 1
+            doan.append([j0, j - 1])
+        else:
+            j += 1
+    if not doan:
+        return None
+    k = min(range(len(doan)), key=lambda i: 0 if doan[i][0] <= x0 <= doan[i][1] else min(abs(doan[i][0] - x0), abs(doan[i][1] - x0)))
+    a, b = doan[k]
+    i = k - 1
+    while i >= 0 and a - doan[i][1] - 1 <= GOP_DOAN:
+        a = doan[i][0]; i -= 1
+    i = k + 1
+    while i < len(doan) and doan[i][0] - b - 1 <= GOP_DOAN:
+        b = doan[i][1]; i += 1
+    return [a, b]
+
+
+def do_cat(f, e, bo):
+    """Đường cắt giữa đùi + mép hình ở đó: [c, trái, phải] (ô 96 nguồn; trái = phải = −1 nếu không đo được).
+    e = điểm eo [y, x] đã chốt. Mép = trung vị của 3 hàng c−1, c, c+1 (một điểm ảnh lạc không làm lệch)."""
+    c = int(e[0] + round((CHAN_Y - e[0]) * TI_LE_CAT))
+    al = f[..., 3] > 100
+    h, s, v = hsv(f)
+    m = al & ~da(f) & ~MAU_DAI[bo](h, s, v)
+    ds = [d for d in (doan_hang(m[y], e[1]) for y in (c - 1, c, c + 1)) if d]
+    if not ds:
+        return [c, -1, -1]
+    return [c, int(np.median([d[0] for d in ds])), int(np.median([d[1] for d in ds]))]
+
+
 def main():
     tam = {b: doc_tam(ma) for b, ma in BO.items()}
     D0 = tam['moi'][0]['dong_tac']
@@ -144,9 +195,20 @@ def main():
                 if e is None or (b != 'moi' and max(abs(e[0] - e0[0]), abs(e[1] - e0[1])) > LECH_TOI_DA):
                     loai.setdefault(b, []).append('%s#%d %s→ninja %s' % (ten, i, e, e0))
                     ra[b][ten][i] = list(e0)
+    # sửa bóp eo: đường cắt giữa đùi + bề rộng, đo trên chính khung của bộ đó (sau khi đã chốt điểm eo)
+    for b in BO:
+        d, a = tam[b]
+        for ten in hang:
+            dt = d['dong_tac'][ten]
+            for i in range(dt['so']):
+                e = ra[b][ten][i]
+                ra[b][ten][i] = list(e[:2]) + do_cat(khung(a, dt['hang'], i), e, b)
     out = {
-        'phien_ban': 1,
-        'ghi_chu': 'Dựng bằng docs/anh-goc/zed/cat-than.py. Mỗi khung [y, x] ô 96×96 nguồn: y = đường cắt (đáy đai), x = tâm hông.',
+        'phien_ban': 2,
+        'vung_noi': VUNG_NOI,
+        'keo_toi_da': KEO_TOI_DA,
+        'doi_toi_da': DOI_TOI_DA,
+        'ghi_chu': 'Dựng bằng docs/anh-goc/zed/cat-than.py. Mỗi khung [y, x, c, l, r] ô 96×96 nguồn: y = đáy đai (cắt cũ, trục nghiêng), x = tâm hông; c = đường cắt giữa đùi (zed-eo-sua), l/r = mép trái/phải hình ở hàng c (−1: không đo được).',
         'hang': [k for k in hang if k != 'chay'],
         'bo': ra,
         'loai': loai,
@@ -158,10 +220,12 @@ def main():
     for b, ds in loai.items():
         print('  %s: %d khung dùng điểm ninja: %s' % (b, len(ds), '; '.join(ds)))
     xem(tam, ra, hang)
+    xem_sua(tam, ra)
 
 
-def ghep(fa, ea, fr, er):
+def ghep(fa, ea, fr, er):  # cách CŨ (cắt ở đáy đai), để so sánh — game: ?eosua=0
     """Ghép như game: nửa dưới khung chạy fr (hàng > er.y), nửa trên khung đòn fa (hàng <= ea.y) dời theo điểm eo."""
+    er, ea = er[:2], ea[:2]
     dx, dy = er[1] - ea[1], er[0] - ea[0]
     out = np.zeros_like(fr)
     out[er[0] + 1:] = fr[er[0] + 1:]
@@ -197,6 +261,135 @@ def xem(tam, ra, hang):
         p = os.path.join(RA_XEM, 'ghep-eo-%s.png' % b)
         cv.save(p, optimize=True)
         print('Đã ghi', os.path.relpath(p, GOC))
+
+
+# ---------- ẢNH SOÁT zed-eo-sua: dựng y như game (js/zed_moi.js) ở độ phân giải nguồn ----------
+def keo_noi(eA, eR, dx):
+    """Phép kéo vùng nối — y hệt keoNoi() trong js/zed_moi.js. Trả (bên, l, r, L, R) hoặc None:
+    bên 'tren' / 'duoi' = nửa được kéo; [l, r] mép của nó, [L, R] mép đích (đều theo cột nguồn của khung CHẠY, nửa trên đã dời dx)."""
+    if eA[3] < 0 or eR[3] < 0:
+        return None
+    lA, rA, lR, rR = eA[3] + dx, eA[4] + dx, eR[3], eR[4]
+    wA, wR = rA - lA + 1, rR - lR + 1
+    if wA == wR and lA == lR:
+        return None
+    ben = 'tren' if wA < wR else 'duoi'
+    l, r, L, R = (lA, rA, lR, rR) if ben == 'tren' else (lR, rR, lA, rA)
+    if (R - L + 1) / (r - l + 1) > KEO_TOI_DA or max(abs(L - l), abs(R - r)) > DOI_TOI_DA:
+        return None
+    return ben, l, r, L, R
+
+
+def keo_hang(row, l, r, L, R, t):
+    """Hàng RGBA: đoạn [l, r] biến tuyến tính về [l + t(L − l), r + t(R − r)] (cả hàng cùng phép, lấy mẫu gần nhất)."""
+    tl, tr = l + t * (L - l), r + t * (R - r)
+    k = (tr - tl + 1) / (r - l + 1)
+    X = np.arange(O)
+    src = np.floor(l + (X + 0.5 - tl) / k).astype(int)
+    ok = (src >= 0) & (src < O)
+    out = np.zeros_like(row)
+    out[ok] = row[src[ok]]
+    return out
+
+
+def dich(a, dx, dy):
+    out = np.zeros_like(a)
+    ys, xs = slice(max(0, dy), min(O, O + dy)), slice(max(0, dx), min(O, O + dx))
+    out[ys, xs] = a[max(0, -dy):O - max(0, dy), max(0, -dx):O - max(0, dx)]
+    return out
+
+
+def ghep_cu(fa, ea, fr, er, nguoc):
+    """Cách cũ (?eosua=0): cắt ở đáy đai; chạy ngược hướng chém thì chân LẬT ngược lại (vặn người)."""
+    if not nguoc:
+        return ghep(fa, ea, fr, er)
+    # game: Lx = kc + rel·(xR/2 − 24), mặt phải → kc = 1 điểm ảnh game; chân vẽ lật
+    lx = 1 - (er[1] / 2 - 24)
+    hip = int(round(2 * lx + 48))           # tâm hông chân (nguồn) sau khi lật
+    out = np.zeros_like(fr)
+    low = np.zeros_like(fr)
+    low[er[0] + 1:] = fr[er[0] + 1:]
+    low = dich(low[:, ::-1], hip - (O - 1 - er[1]), 0)
+    out = low
+    up = np.zeros_like(fa)
+    up[:ea[0] + 1] = fa[:ea[0] + 1]
+    up = dich(up, hip - ea[1], er[0] - ea[0])
+    im = Image.fromarray(out)
+    im.alpha_composite(Image.fromarray(up))
+    return im
+
+
+def ghep_moi(fa, ea, fr, er):
+    """Cách mới: cắt giữa đùi, vùng nối kéo giãn bên hẹp, nửa trên đè nửa dưới. Chân luôn cùng hướng thân trên."""
+    cA, cR = ea[2], er[2]
+    dx, dy = er[1] - ea[1], cR - cA          # ngang theo tâm hông (như cũ), dọc theo đường cắt mới
+    S = VUNG_NOI
+    up = np.zeros_like(fa)
+    up[:cA + 1] = fa[:cA + 1]
+    up = dich(up, dx, dy)                   # từ đây hàng cA của nửa trên nằm ở hàng cR
+    low = np.zeros_like(fr)
+    low[cR:] = fr[cR:]                      # lấn lên 1 hàng (bị nửa trên đè)
+    K = keo_noi(ea, er, dx)
+    if K:
+        ben, l, r, L, R = K
+        for k in range(S):                  # k = 0 ở mép nối (t = 1) → k = S−1 (t = 1/S)
+            t = (S - k) / S
+            if ben == 'tren':
+                y = cR - k
+                if y >= 0:
+                    up[y] = keo_hang(up[y], l, r, L, R, t)
+            else:
+                y = cR + 1 + k
+                if y < O:
+                    low[y] = keo_hang(low[y], l, r, L, R, t)
+        if ben == 'duoi':
+            low[cR] = keo_hang(low[cR], l, r, L, R, 1)
+    im = Image.fromarray(low)
+    im.alpha_composite(Image.fromarray(up))
+    return im
+
+
+def xem_sua(tam, ra):
+    """xem-eo-sua.png: kiếm 1, kiếm 2, thương 1, phi tiêu × bộ ninja, Lâu đài; mỗi ô: CŨ cùng hướng | MỚI cùng hướng | CŨ ngược | MỚI ngược."""
+    from PIL import ImageDraw
+    os.makedirs(RA_XEM_SUA, exist_ok=True)
+    dong = [(b, t) for b in ('moi', 'lau') for t in ('kiem_1', 'kiem_2', 'thuong_1', 'phitieu')]
+    KH = 3          # 3 khung mỗi đòn (đầu, chạm ★, cuối)
+    Z = 2           # phóng to ×2 nguồn
+    W0 = 150
+    cot = KH * 4
+    cv = Image.new('RGBA', (W0 + O * Z * cot, 40 + O * Z * len(dong)), (46, 48, 58, 255))
+    dr = ImageDraw.Draw(cv)
+    nhan = ['CU cung huong', 'MOI cung huong', 'CU chay nguoc', 'MOI chay nguoc (lui)']
+    for k in range(4):
+        for f in range(KH):
+            x = W0 + (k * KH + f) * O * Z
+            dr.text((x + 6, 6), '%s #%d' % (nhan[k], f + 1), fill=(255, 230, 150, 255))
+    tenb = {'moi': 'ninja', 'lau': 'Lau dai'}
+    for r, (b, ten) in enumerate(dong):
+        d, a = tam[b]
+        dt, dc = d['dong_tac'][ten], d['dong_tac']['chay']
+        y0 = 40 + r * O * Z
+        dr.text((8, y0 + 80), '%s\n%s' % (tenb[b], ten), fill=(230, 230, 240, 255))
+        ks = [0, min(dt['so'] - 1, 2), dt['so'] - 2]
+        for f, i in enumerate(ks):
+            fa, ea = khung(a, dt['hang'], i), ra[b][ten][i]
+            j = (i * 3 + 1) % dc['so']
+            jl = dc['so'] - 1 - j                 # chạy lùi: hàng chạy phát ngược thứ tự khung
+            fr, er = khung(a, dc['hang'], j), ra[b]['chay'][j]
+            frl, erl = khung(a, dc['hang'], jl), ra[b]['chay'][jl]
+            o = [ghep_cu(fa, ea, fr, er, False), ghep_moi(fa, ea, fr, er), ghep_cu(fa, ea, fr, er, True), ghep_moi(fa, ea, frl, erl)]
+            for k in range(4):
+                x = W0 + (k * KH + f) * O * Z
+                if k % 2 == 1:
+                    dr.rectangle([x, y0, x + O * Z - 1, y0 + O * Z - 1], fill=(54, 66, 60, 255))
+                cv.alpha_composite(o[k].resize((O * Z, O * Z), Image.NEAREST), (x, y0))
+    for k in range(1, 4):
+        x = W0 + k * KH * O * Z
+        dr.line([x, 0, x, cv.height], fill=(255, 255, 255, 120), width=2)
+    p = os.path.join(RA_XEM_SUA, 'xem-eo-sua.png')
+    cv.save(p, optimize=True)
+    print('Đã ghi', os.path.relpath(p, GOC), cv.size)
 
 
 if __name__ == '__main__':
